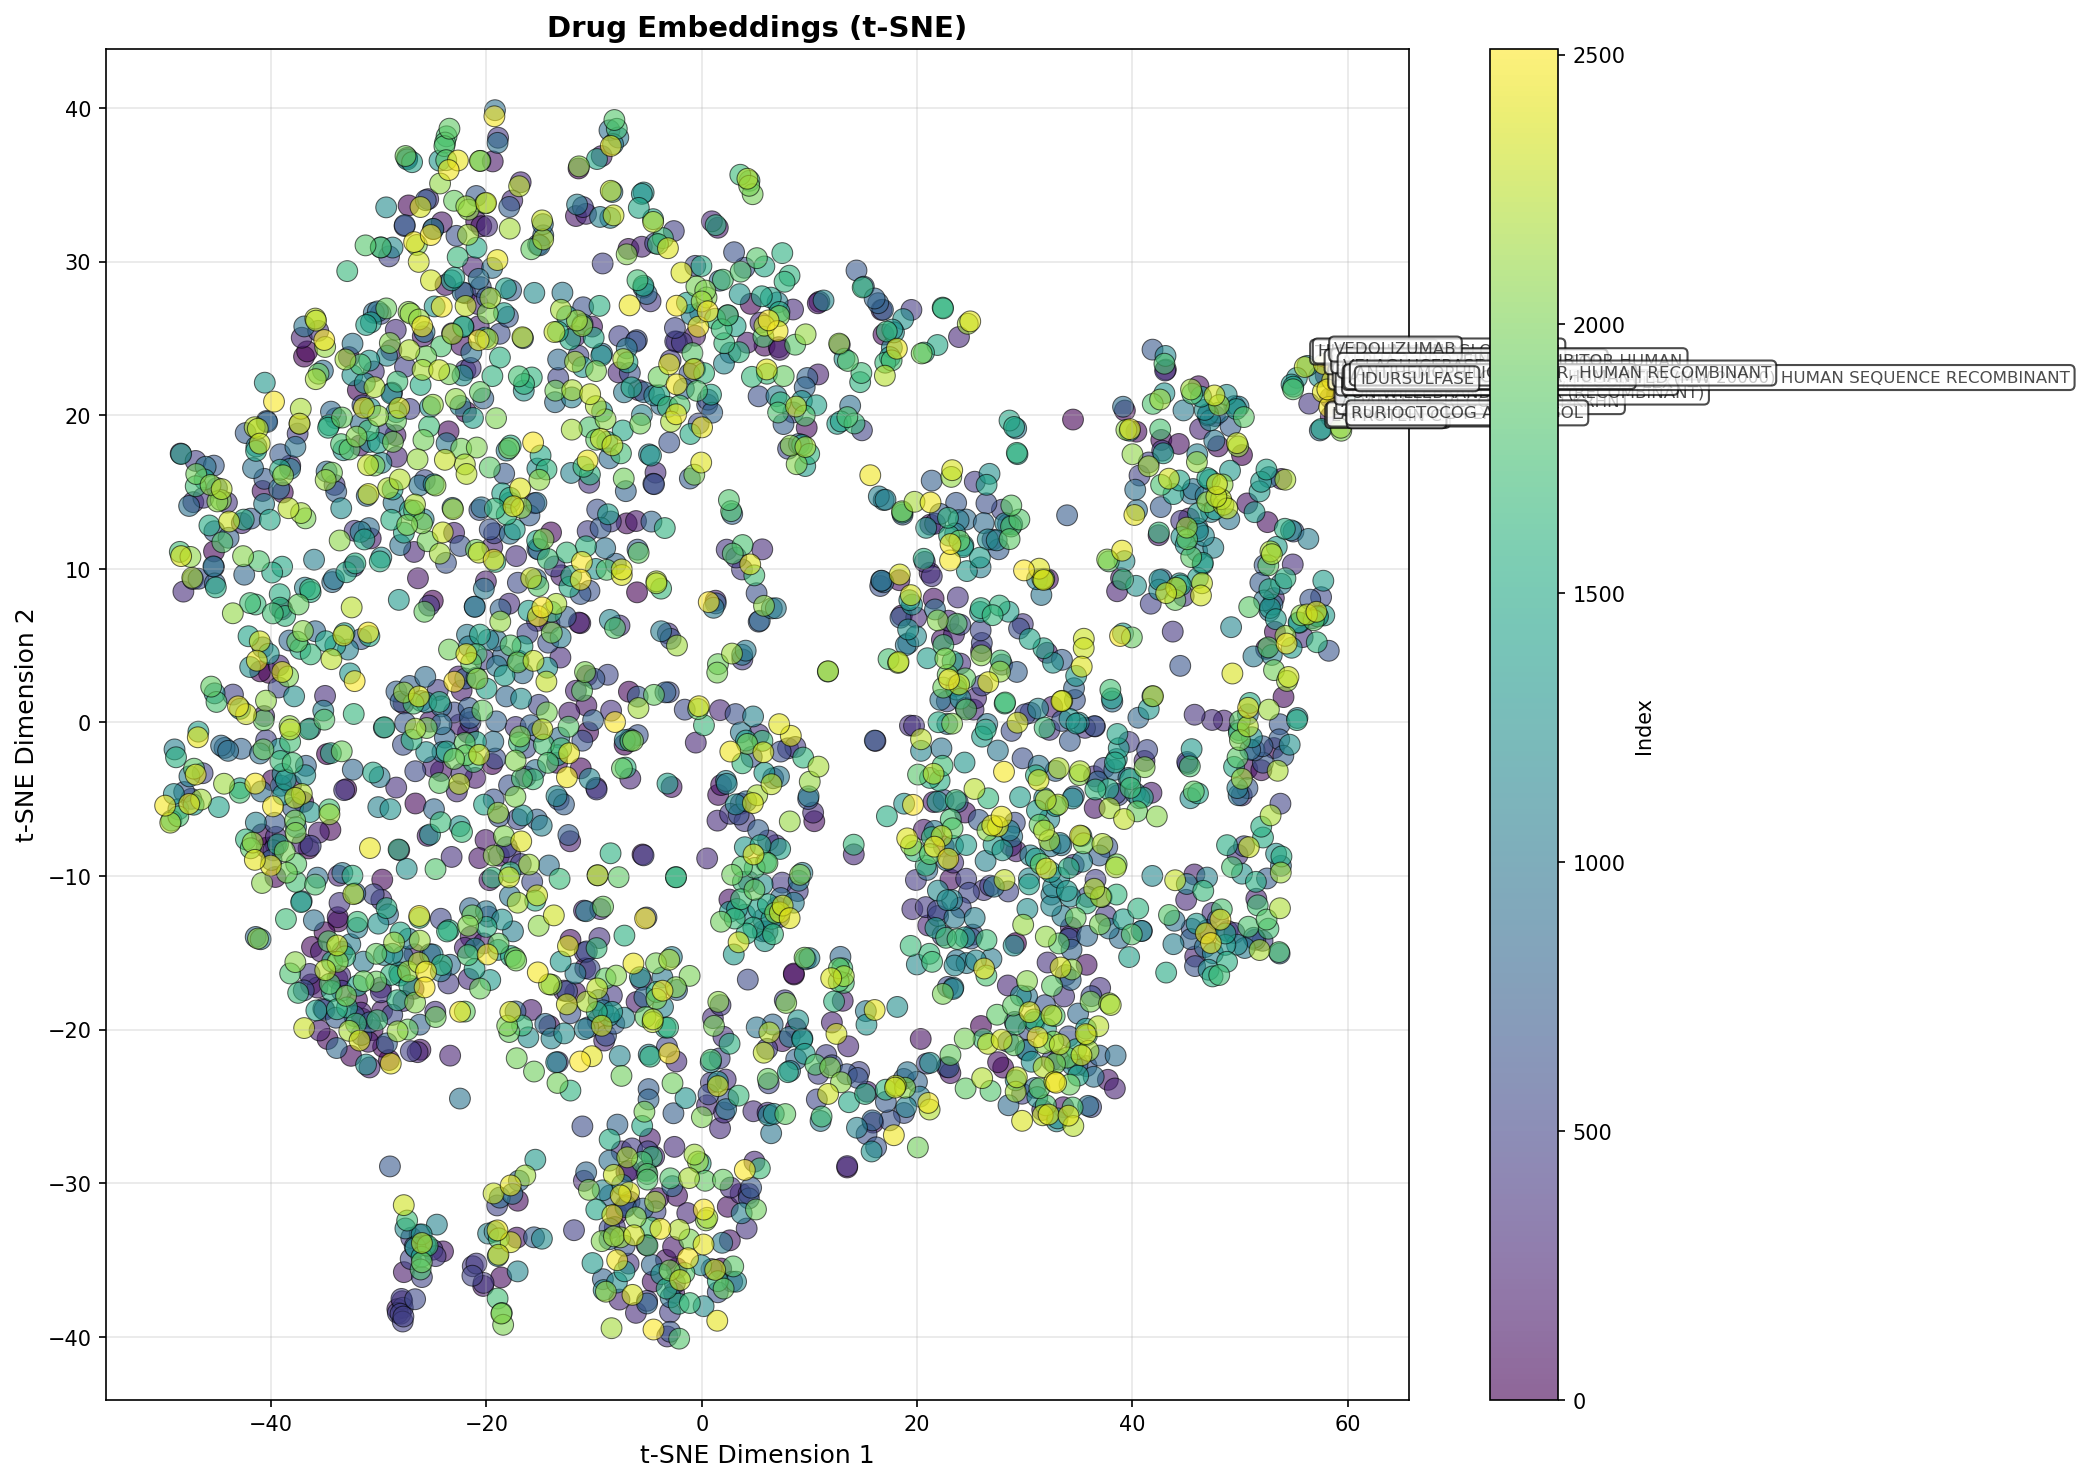
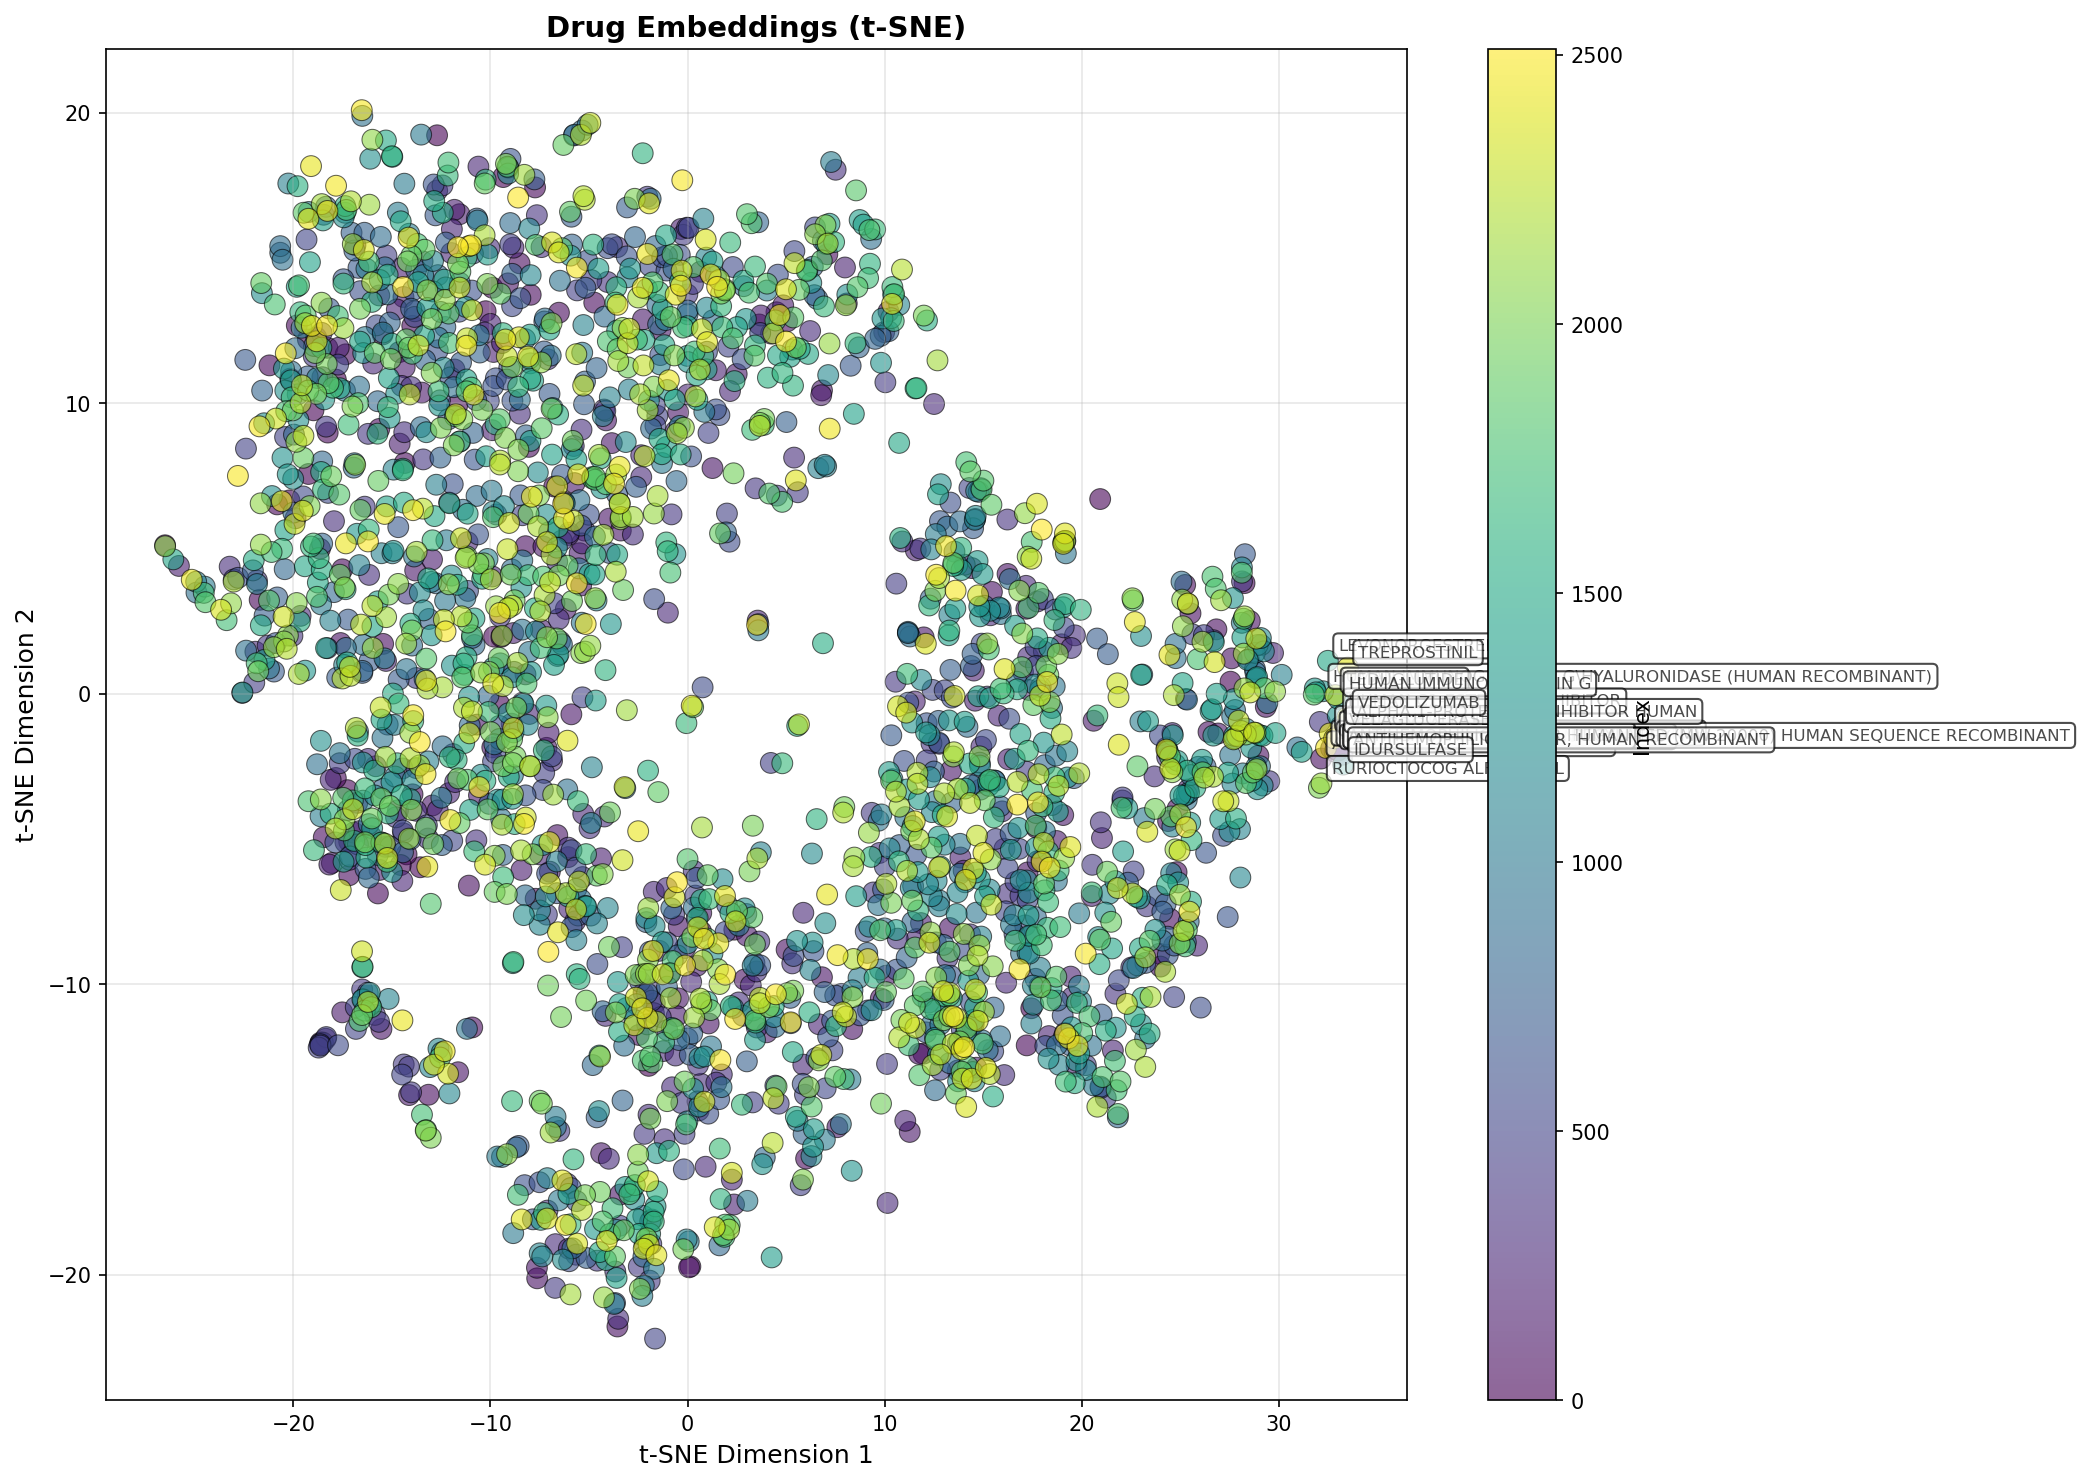
readme

diff --git a/README.md b/README.md
@@ -1,0 +1,327 @@
+# Drug-Adverse Event Prediction Using Deep Learning
+
+## Project Overview
+
+A deep learning system that predicts drug-adverse event associations from FDA FAERS (Adverse Event Reporting System) data and visualizes learned drug relationships.
+
+---
+
+## Quick Start
+
+### Option 1: Use Pre-trained Model (Recommended)
+
+If you already have the trained model (`best_model.pt`), you can start making predictions immediately:
+
+```bash
+# 1. Install dependencies
+pip install torch pandas numpy scikit-learn matplotlib scipy
+
+# 2. Use the model for predictions
+python -c "
+from compare_drugs import DrugComparator
+
+comparator = DrugComparator('outputs/my_model/best_model.pt')
+risk = comparator.predict('WARFARIN', 'bleeding', age=70, sex='M', route='ORAL')
+print(f'Bleeding risk: {risk:.1%}')
+"
+
+# 3. Visualize embeddings
+python export_embeddings.py
+python visualize_embeddings.py --method tsne
+# Check outputs/visualizations/ for plots
+```
+
+### Option 2: Train from Scratch
+
+```bash
+# 1. Install dependencies
+pip install torch pandas numpy scikit-learn matplotlib scipy
+
+# 2. Download FAERS data
+# Visit: https://fis.fda.gov/extensions/FPD-QDE-FAERS/FPD-QDE-FAERS.html
+# Download Drug, Reactions, Demographics tables for 2023 Q4 - 2025 Q1
+
+# 3. Process raw data
+# Open data_creation.ipynb in Jupyter
+jupyter notebook data_creation.ipynb
+# Run all cells to create faers_data.csv
+
+# 4. Prepare training data
+python data_prep_with_features.py
+
+# 5. Train the model
+python run_my_faers_data.py
+# This will create: outputs/my_model/best_model.pt
+
+# 6. Visualize results
+python export_embeddings.py
+python visualize_embeddings.py --method tsne
+```
+
+---
+
+## Dataset
+
+**Source**: FDA FAERS Database (6 quarters: 2023 Q4 through 2025 Q1)
+
+**Raw Data**:
+- Downloaded from: https://fis.fda.gov/extensions/FPD-QDE-FAERS/FPD-QDE-FAERS.html
+- Tables: Drug, Reactions, Outcomes, and Demographics
+- Time period: 2023 Q4, 2024 Q1, 2024 Q2, 2024 Q3, 2024 Q4, 2025 Q1 (6 quarters total)
+- **2,170,929 unique patient reports**
+- **Thousands of unique drugs and reactions** in raw data
+
+**Filtered Data (Model Vocabulary)**:
+- **2,512 drugs** (filtered: min 10 occurrences per drug across all reports)
+- **8,346 adverse reactions** (filtered: min 10 occurrences per reaction)
+- **Note**: Rare drugs/reactions were excluded to reduce noise and focus on well-documented associations
+- **Patient features**: Age (mean: 53.6 years, std: 20.7), Sex (M/F/Unknown), Administration route
+- **~300,000+ training examples** (with 1:1 positive:negative sampling)
+
+---
+
+## Model Architecture
+
+**DrugReactionModelWithFeatures** - Multi-layer Perceptron with learned embeddings
+
+### Components:
+1. **Drug Embedding Layer**: 2,512 drugs → 64 dimensions
+2. **Reaction Embedding Layer**: 8,346 reactions → 64 dimensions
+3. **Feature Embeddings**:
+   - Sex: 3 categories → 8 dimensions
+   - Route: 20 categories → 16 dimensions
+   - Age: Normalized continuous value (1 dimension)
+4. **MLP Classifier**:
+   - Input: 153 dimensions (64 + 64 + 8 + 16 + 1)
+   - Hidden layers: 153 → 128 → 64
+   - Output: 1 neuron with sigmoid activation
+   - Dropout: 0.3 (applied after each hidden layer)
+
+### Training Configuration:
+- **Loss**: Binary Cross-Entropy (BCELoss)
+- **Optimizer**: SGD with momentum (lr=0.01, momentum=0.9, weight_decay=1e-5)
+- **Batch Size**: 3,000
+- **Epochs**: Up to 30 (with early stopping patience=5)
+- **Learning Rate Scheduler**: ReduceLROnPlateau (reduces LR when validation AUC plateaus)
+- **Train/Val/Test Split**: 70% / 10% / 20%
+- **Negative Sampling**: 1:1 ratio (equal positive and randomly sampled negative examples)
+
+### Why Training Was Fast:
+- **Easy negative examples**: Randomly sampled drug-reaction pairs are mostly medically implausible (e.g., "ASPIRIN + unicorn_syndrome")
+- **Clear decision boundary**: Model quickly learns to distinguish real FAERS-reported associations from random noise
+- **Training time**: Converged in ~10-15 epochs, total time ~10-20 minutes on CPU
+- **Trade-off**: High performance metrics, but the task is easier than real-world drug safety prediction where negatives are "plausible but unreported" associations
+
+---
+
+## Model Performance
+
+| Metric | Score |
+|--------|-------|
+| **ROC AUC** | 99.39% |
+| **Accuracy** | 96.34% |
+| **Average Precision** | 99.37% |
+| **Validation Loss** | 0.0976 |
+
+**Important Context**:
+- Performance measured on validation set with **random negative sampling**
+- Negative examples: randomly paired drugs/reactions (most are medically implausible)
+- High performance reflects the model's ability to distinguish real FAERS-reported associations from random noise
+- Model operates on a **closed vocabulary** (2,512 drugs, 8,346 reactions) - cannot predict for drugs/reactions outside this set
+- Real-world performance on novel or rare drug-reaction pairs would likely be lower
+
+---
+
+## Key Innovation: Learned Embeddings
+
+The model learns **64-dimensional vector representations** for each drug and reaction through training.
+
+### What the Embeddings Capture:
+- **Similar adverse event profiles** → similar embeddings
+- **Patient population overlap** → clustered together
+- **Co-prescription patterns** → nearby in embedding space
+- **Real-world clinical context** → NOT chemical structure
+
+### Example:
+- **IBUPROFEN ≈ ACETAMINOPHEN** (similarity: 0.81)
+  - Both common pain relievers
+  - Similar patient populations
+  - Overlapping adverse event patterns
+
+- **ATORVASTATIN ≈ METFORMIN** (similarity: 0.86)
+  - Frequently co-prescribed (diabetes + cardiovascular disease)
+  - Same demographic groups
+  - Similar GI-related adverse events
+
+---
+
+## Visualization: t-SNE Embeddings
+
+### Drug Embeddings (2D Projection)
+
+**What it shows**: 64-dimensional drug embeddings reduced to 2D using t-SNE
+
+**Key Patterns**:
+- **Dense center**: Common outpatient medications (statins, diabetes drugs, pain relievers)
+- **Periphery**: Specialized/rare drugs (biologics, orphan drugs, blood factors)
+- **Proximity = Similarity**: Drugs close together have similar adverse event profiles
+
+### Interpretation:
+
+| Region | Drug Type | Examples |
+|--------|-----------|----------|
+| **Center Cluster** | Common medications, high co-prescription | Metformin, Aspirin, Ibuprofen, Statins |
+| **Periphery** | Specialized/rare biologics | Vedolizumab (IBD), Idursulfase (Hunter syndrome), Factor VIII (Hemophilia) |
+
+**Why this matters**: The model learned clinically meaningful relationships without being explicitly told about drug classes or therapeutic uses.
+
+---
+
+## How the Neural Network Learned This
+
+### Training Process:
+
+1. **Starts with random embeddings** (no structure)
+2. **Receives labeled examples**:
+   - (WARFARIN, bleeding, age=70, sex=M) → TRUE
+   - (WARFARIN, hair_loss, age=70, sex=M) → FALSE
+3. **Backpropagation adjusts embeddings** to improve predictions
+4. **Result**: Drugs causing similar reactions get similar embeddings
+
+### File Descriptions:
+
+| File | Purpose | 
+|------|---------|
+| `data_creation.ipynb` | Process raw FAERS → faers_data.csv | 
+| `data_prep_with_features.py` | Create vocabularies & splits |
+| `run_my_faers_data.py` | Train the model |
+| `compare_drugs.py` | Make predictions |
+| `export_embeddings.py` | Extract embeddings |
+| `visualize_embeddings.py` | Create t-SNE plots |
+| `outputs/my_model/best_model.pt` | Trained model |
+
+---
+
+## Workflow Diagrams
+
+### Training Pipeline (From Scratch)
+
+```
+┌─────────────────────────────────────────────────────────────────┐
+│ Step 1: Download Raw Data                                       │
+│ https://fis.fda.gov/extensions/FPD-QDE-FAERS/FPD-QDE-FAERS.html │
+│ → Download 6 quarters (2023 Q4 - 2025 Q1)                       │
+└─────────────────────────┬───────────────────────────────────────┘
+                          ↓
+┌─────────────────────────────────────────────────────────────────┐
+│ Step 2: Process Raw Data                                        │
+│ jupyter notebook data_creation.ipynb                            │
+│ → Creates: faers_data.csv (2.17M patient reports)               │
+└─────────────────────────┬───────────────────────────────────────┘
+                          ↓
+┌─────────────────────────────────────────────────────────────────┐
+│ Step 3: Prepare Training Data                                   │
+│ python data_prep_with_features.py                               │
+│ → Creates: vocabularies, train/val/test splits                  │
+└─────────────────────────┬───────────────────────────────────────┘
+                          ↓
+┌─────────────────────────────────────────────────────────────────┐
+│ Step 4: Train Model                                             │
+│ python run_my_faers_data.py                                     │
+│ → Creates: outputs/my_model/best_model.pt                       │
+│ → Performance: 99.39% ROC AUC                                   │
+└─────────────────────────┬───────────────────────────────────────┘
+                          ↓
+```
+
+### Inference Pipeline (Using Pre-trained Model)
+
+```
+┌─────────────────────────────────────────────────────────────────┐
+│ You have: outputs/my_model/best_model.pt                        │
+└─────────────────────────┬───────────────────────────────────────┘
+                          ↓
+              ┌───────────┴───────────┐
+              ↓                       ↓
+┌─────────────────────────┐  ┌──────────────────────────┐
+│ Option A: Predictions   │  │ Option B: Visualizations │
+│                         │  │                          │
+│ python -c "             │  │ python export_embeddings │
+│ from compare_drugs...   │  │ ↓                        │
+│ comparator.predict()    │  │ python visualize_embed.. │
+│ "                       │  │ ↓                        │
+│                         │  │ See outputs/visualiz../  │
+└─────────────────────────┘  └──────────────────────────┘
+```
+
+---
+
+## Usage Examples
+
+### 1. Predict Drug-Reaction Association
+```python
+from compare_drugs import DrugComparator
+
+comparator = DrugComparator("outputs/my_model/best_model.pt")
+
+# Single prediction
+risk = comparator.predict("WARFARIN", "bleeding", age=70, sex="M", route="ORAL")
+print(f"Risk probability: {risk:.3f}")
+```
+
+### 2. Compare Multiple Drugs
+```python
+# Compare bleeding risk across drugs
+results = comparator.compare_drugs(
+    ["WARFARIN", "ASPIRIN", "IBUPROFEN"],
+    "bleeding",
+    age=70, sex="M", route="ORAL"
+)
+```
+
+### 3. Find Top Reactions for a Drug
+```python
+# Get top 10 most likely adverse reactions
+top_reactions = comparator.top_reactions_for_drug("WARFARIN", top_k=10)
+```
+
+### 4. Visualize Embeddings
+```bash
+# Export embeddings
+python export_embeddings.py
+
+# Generate t-SNE plots
+python visualize_embeddings.py --method tsne --perplexity 30 --annotate 20
+
+# Generate UMAP plots (faster, preserves global structure)
+python visualize_embeddings.py --method umap
+```
+
+---
+
+## Technical Requirements
+
+```
+Python 3.8+
+torch
+pandas
+numpy
+scikit-learn
+matplotlib
+scipy
+```
+
+Optional:
+```
+umap-learn  # For UMAP visualization
+```
+
+---
+
+## Future Directions
+
+1. **Temporal Analysis**: Incorporate time-series patterns in adverse event reporting
+2. **Explainability**: Identify which embedding dimensions correspond to specific safety patterns
+3. **Multi-task Learning**: Simultaneously predict severity, outcomes, and hospitalization
+4. **Negative Samples**: Improve negative sampling
+5. **Interactive Dashboard**: Web interface for drug safety exploration
